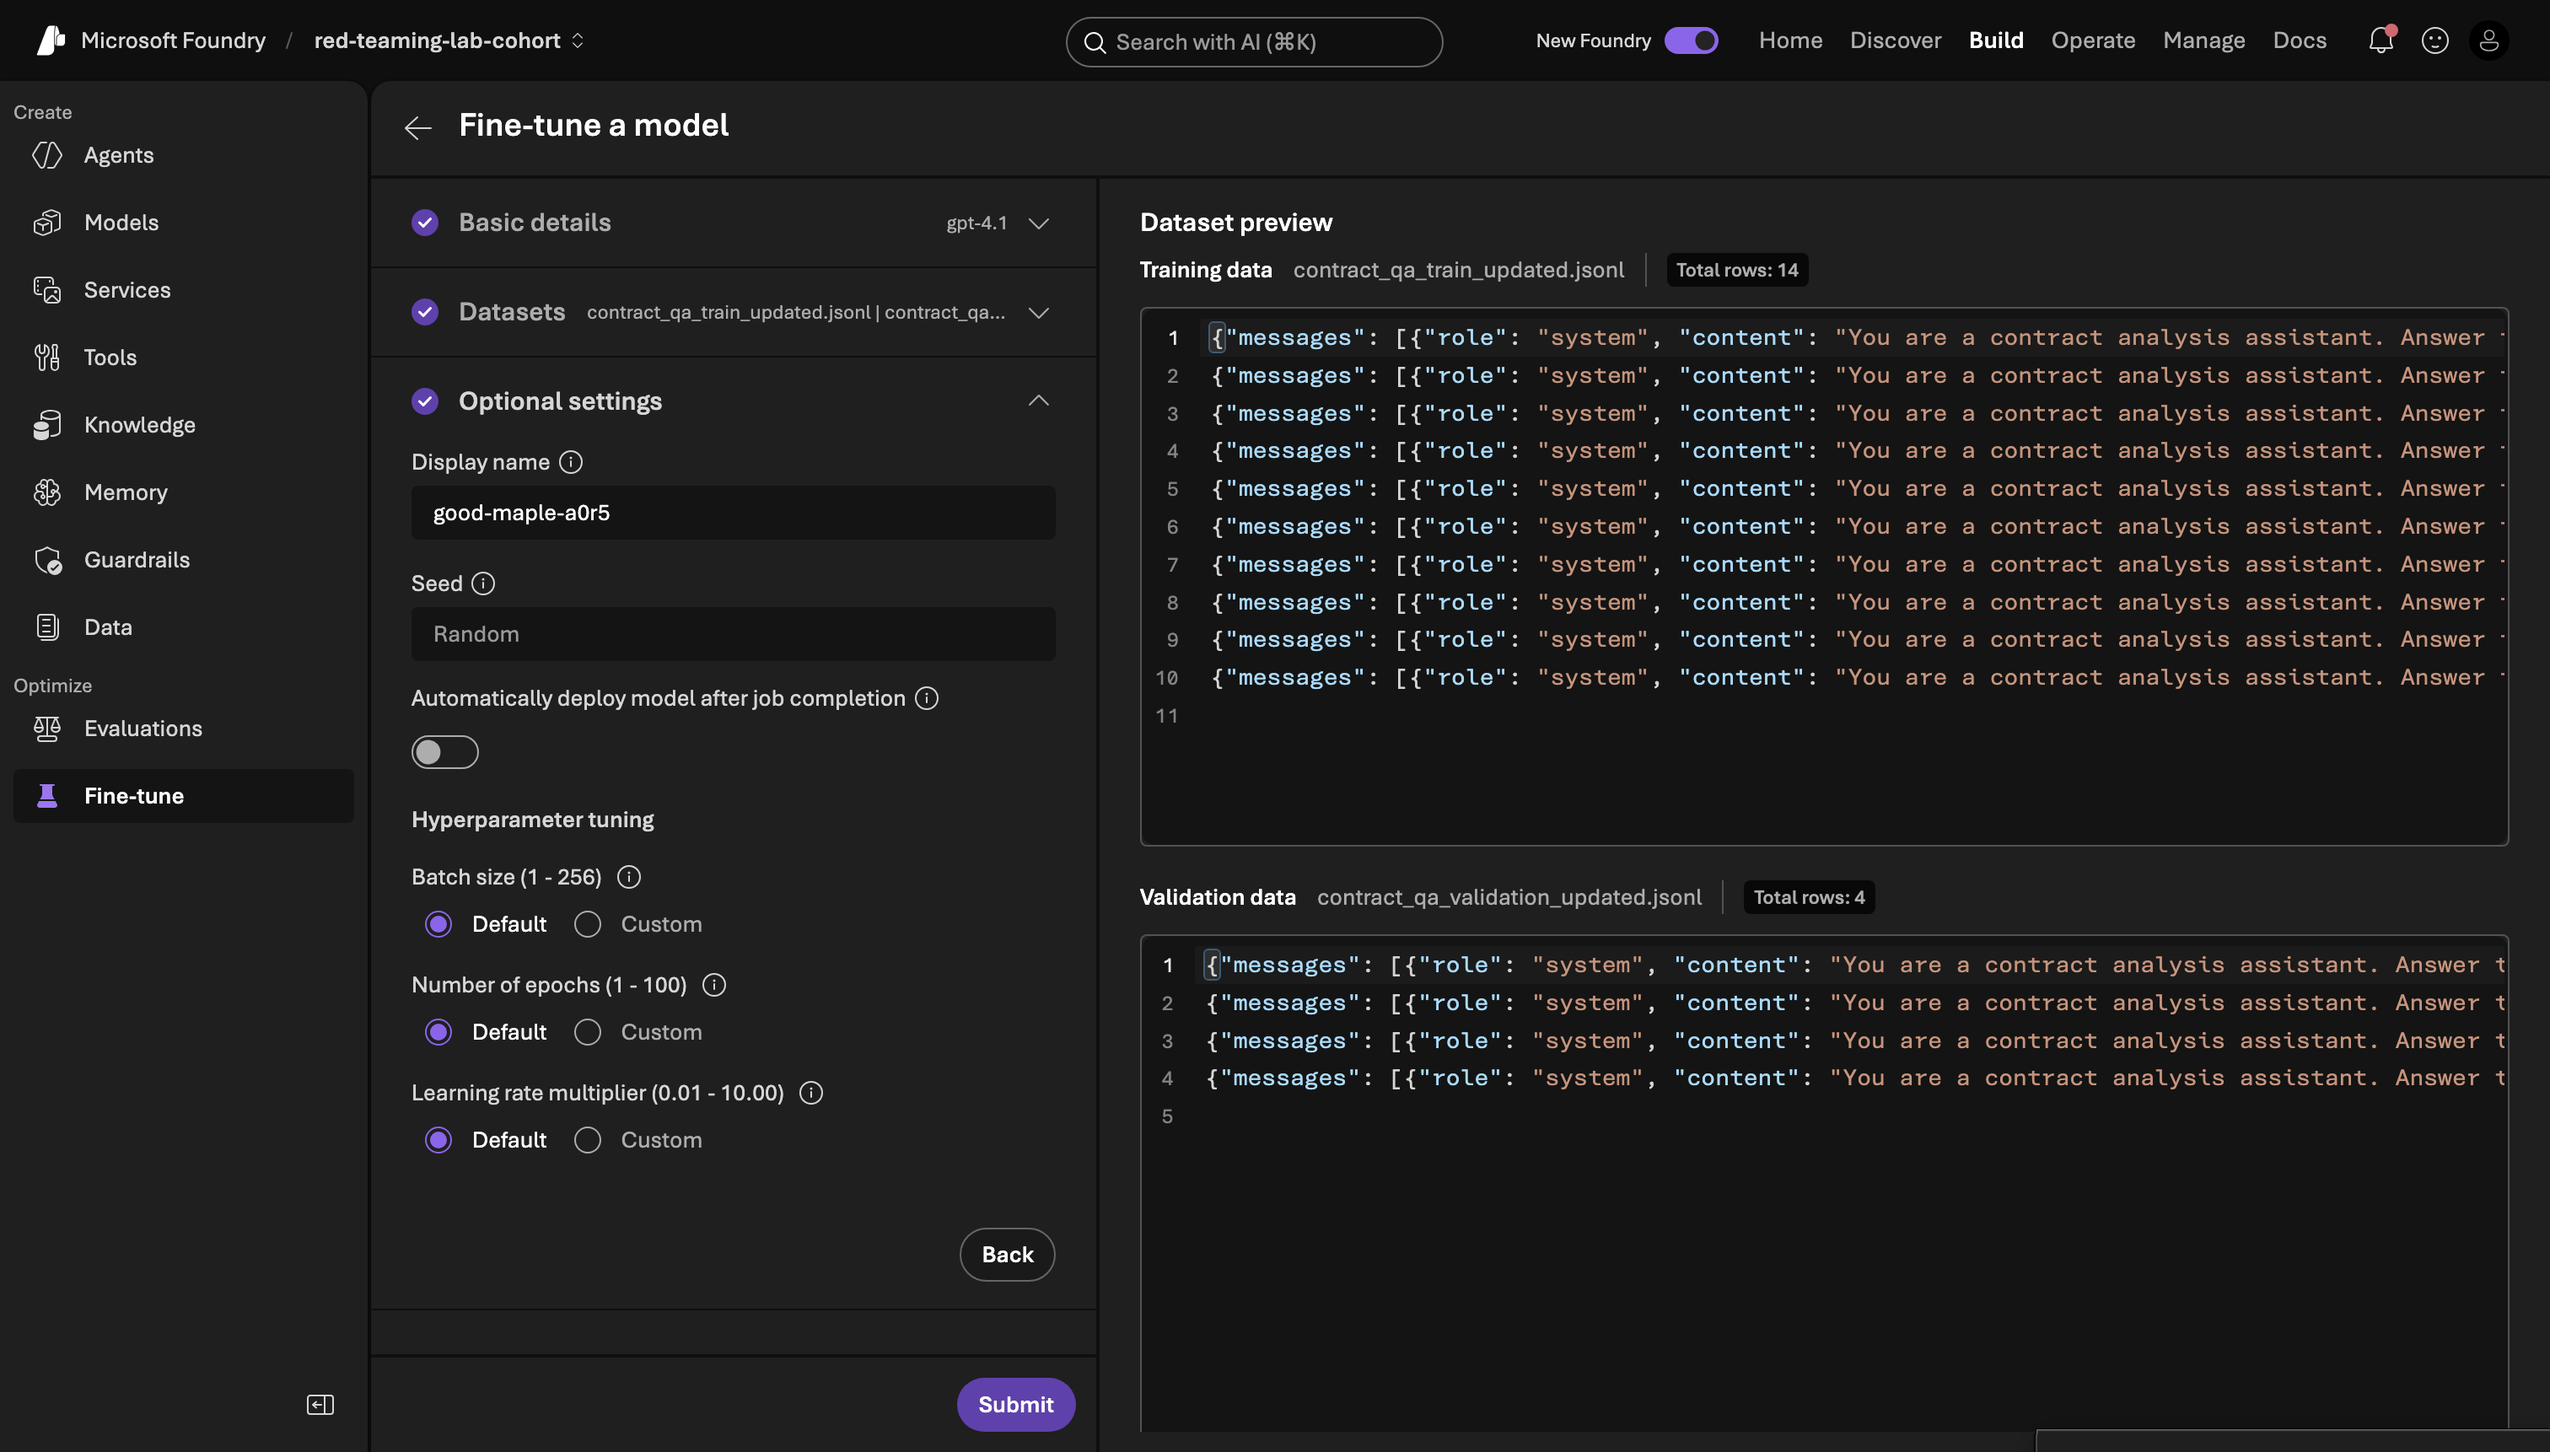
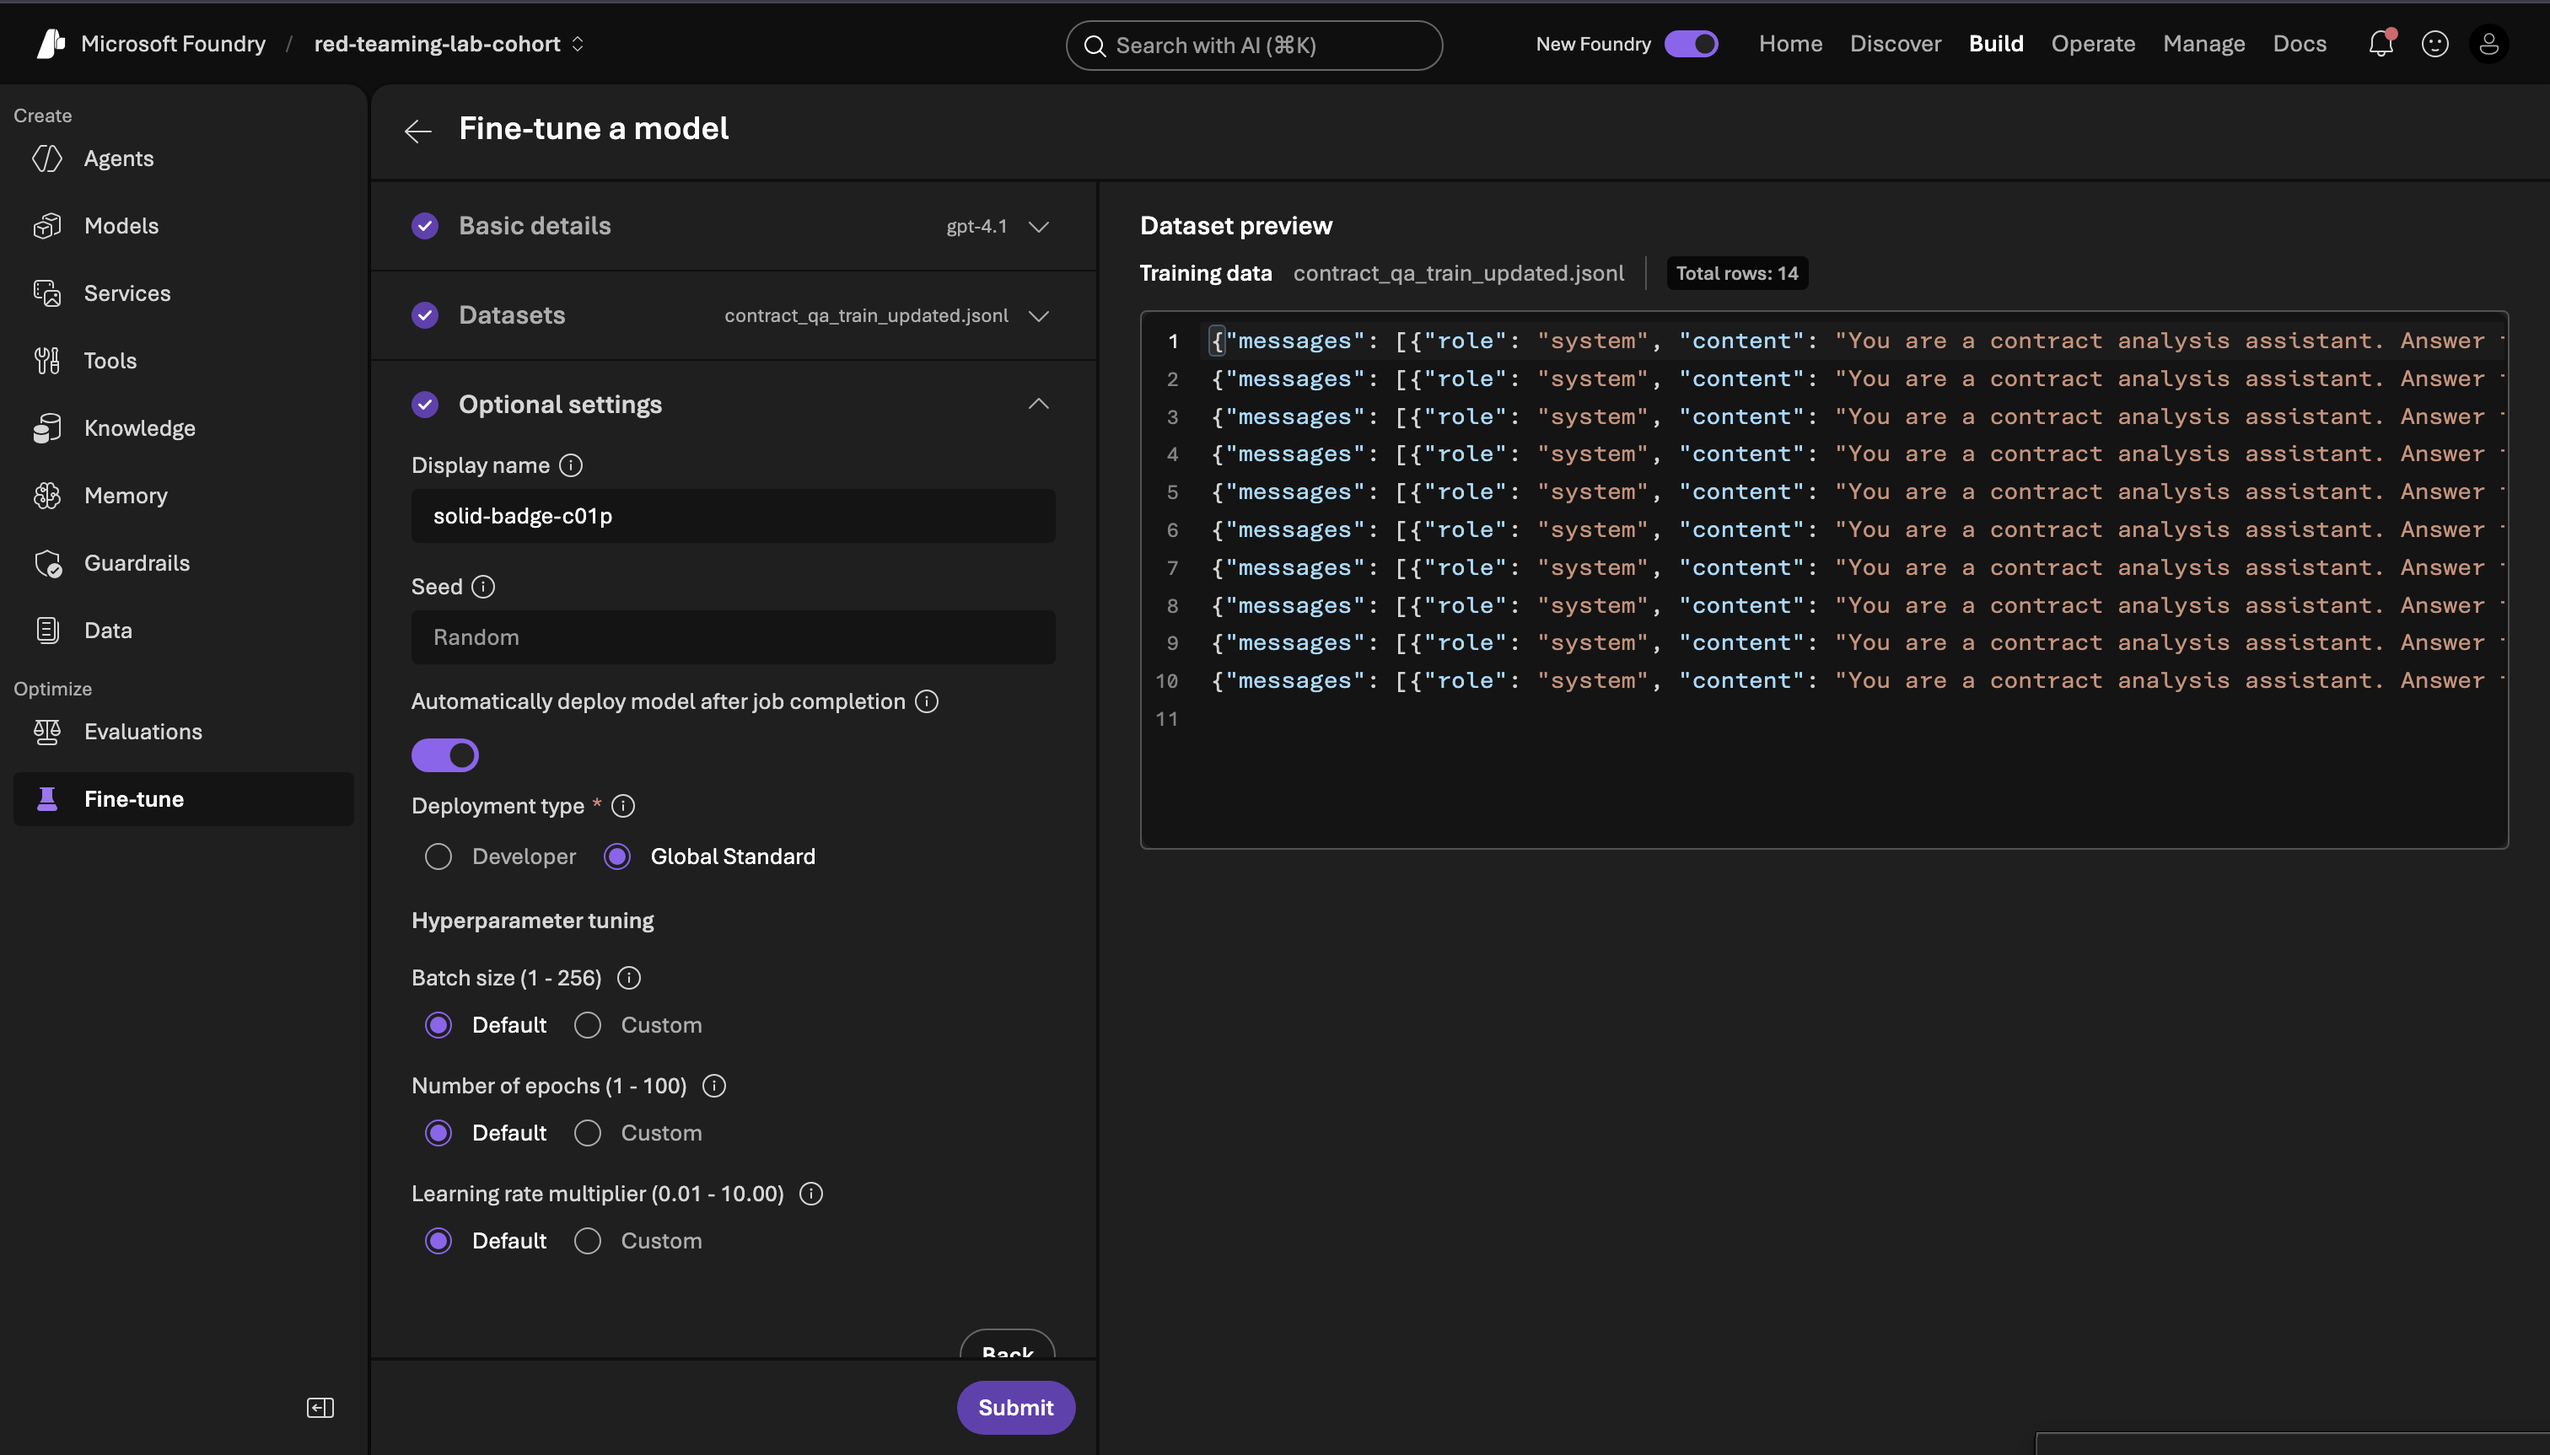
instrcution updates

diff --git a/Cohort-Labs/cohort-10/week-5/5.2-fine-tuning/5.2.1-Fine-Tuning-in-azure-ai-agent/Readme.md b/Cohort-Labs/cohort-10/week-5/5.2-fine-tuning/5.2.1-Fine-Tuning-in-azure-ai-agent/Readme.md
@@ -182,11 +182,12 @@ Now that you've seen the problem — the agent returning a full legal briefing w
 
 The form shows these settings:
 
-| Setting | What It Does | Why Default Is Fine |
+| Setting | What It Does | What to Set |
 |---|---|---|
 | **Display name** | A label for this fine-tuning job so you can find it later | Leave it auto-generated or you can change its name |
 | **Seed** | A random starting point for the training process | Keeping it random ensures a fair, unbiased run |
-| **Automatically deploy model after job completion** | Whether Foundry deploys the trained model as soon as training finishes | Leave off for now — you'll deploy manually in Phase 3 so you can review it first |
+| **Automatically deploy model after job completion** | Whether Foundry deploys the trained model as soon as training finishes | **Turn this ON** — Foundry will automatically deploy the fine-tuned model when training completes, so it's ready to use immediately without a separate deployment step |
+| **Deployment type** | The environment the model is deployed to | Select **Global Standard** — this deploys the model to a globally distributed endpoint suitable for connecting to your agent |
 | **Hyperparameter tuning** | Whether Foundry experiments with different training settings automatically | Not needed for a first run — keep simple |
 | **Batch size (1–256)** | How many training examples the model sees at once before updating | Default is tuned for stability; changing it can cause unstable training |
 | **Number of epochs (1–100)** | How many times the model reads through the full training dataset | Too few and it doesn't learn enough; too many and it over-corrects. Default balances both. |
@@ -251,31 +252,17 @@ The form shows these settings:
 
 **What you're doing**: Switching your agent from the base gpt-4.1 to the fine-tuned version you just trained.
 
+**Why this is simpler now**: Because you enabled **Automatically deploy model after job completion** in Step 5, your fine-tuned model was already deployed as soon as training finished — no manual deployment step needed. It's ready to use immediately.
+
 **Action items**:
 
 1. In the agent configuration panel, find the **Model** dropdown at the top.
 
-2. Click the dropdown and select **Browse more models** at the bottom of the list.
-
-![image](./assets/21.png)
-
-3. A model browser opens. Click the **Fine-tuned models** tab (it may say "My Models" or "Custom Models" depending on your Foundry version).
-
-![image](./assets/22.png)
-
-4. You'll see your fine-tuned model listed here. You can click on it to see its training date and configuration details in the list view.
-
-![image](./assets/23.png)
-
-5. Click **Deploy** next to your fine-tuned model to make it available to your agent.
-
-![image](./assets/24.png)
-
-6. Once deployed, go back to your agent and open the model dropdown again. Your fine-tuned model now appears in the list. Select it.
+2. Select your fine-tuned model from the list. It's already deployed and ready to connect to your agent.
 
 ![image](./assets/25.png)
 
-7. Save your agent settings.
+3. Save your agent settings.
 
 **Output**: Your agent is now running on your fine-tuned model. Everything else about the agent — its instructions, its file search tools, its behavior — stays exactly the same. Only the underlying model has changed.
 
